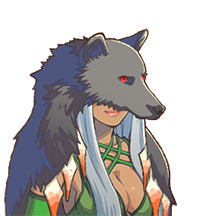
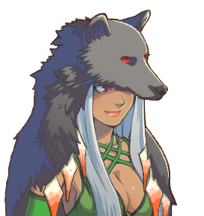
Ulrissa

diff --git a/Bust Config.rb b/Bust Config.rb
@@ -28,6 +28,7 @@ Busty::FACE_TO_BUST = {
   "Min emo2" => "Min2",
   "Riala emo2" => "Riala2",
   "Sabitha H emo" => "SabithaH",
+  "Ulrissa emo3" => "Ulrissa2",
   "Tanurak emoX" => nil, # Disable "glitch" Tanurak
   "Z Andra emo" => nil, # To only allow face 4, see below
   "Z Andra emoN" => nil, # No bust for no robe Andra
@@ -103,6 +104,11 @@ Busty::SUBSET_TO_BUST = [
     face_indexes: [0, 1, 2, 3],
   },
   {
+    character_name: "Ulrissa2",
+    face_name: "Ulrissa emo",
+    face_indexes: [6],
+  },
+  {
     character_name: "Vera",
     face_name: "Y DS_Actor17",
     face_indexes: [7],
@@ -168,7 +174,6 @@ Busty::MESSAGE_AUTODISPLAY_SPECIAL = {
   # Temporary disable characters in need of a bust fix
   "Hester" => "never",
   "Simon2D" => "never",
-  "Ulrissa" => "never",
 }
 module Busty
   class << self
@@ -372,6 +377,9 @@ Busty::MESSAGE_CONFIG.merge!({
     bust_offset_x: -36,
   },
   "Tyna" => {
+    bust_offset_x: -36,
+  },
+  "Ulrissa" => {
     bust_offset_x: -36,
   },
   "Uyae" => {
@@ -805,7 +813,6 @@ Busty::BASE_CONFIG.merge!({
     face_offset_x: 57,
     face_offset_y: 36,
   },
-  # FIXME Major. Need a variant of the bust where the wolf head is up to cover all possible faces.
   "Ulrissa" => {
     bust_scale: 0.75,
     face_offset_x: 64,
@@ -1081,3 +1088,6 @@ Busty::MESSAGE_CONFIG.merge!({
     bust_offset_y: 0,
   },
 })
+# Ulrissa hidden behind wolf mask
+Busty::BASE_CONFIG["Ulrissa2"] = Busty::BASE_CONFIG["Ulrissa"]
+Busty::MESSAGE_CONFIG["Ulrissa2"] = Busty::MESSAGE_CONFIG["Ulrissa"]
